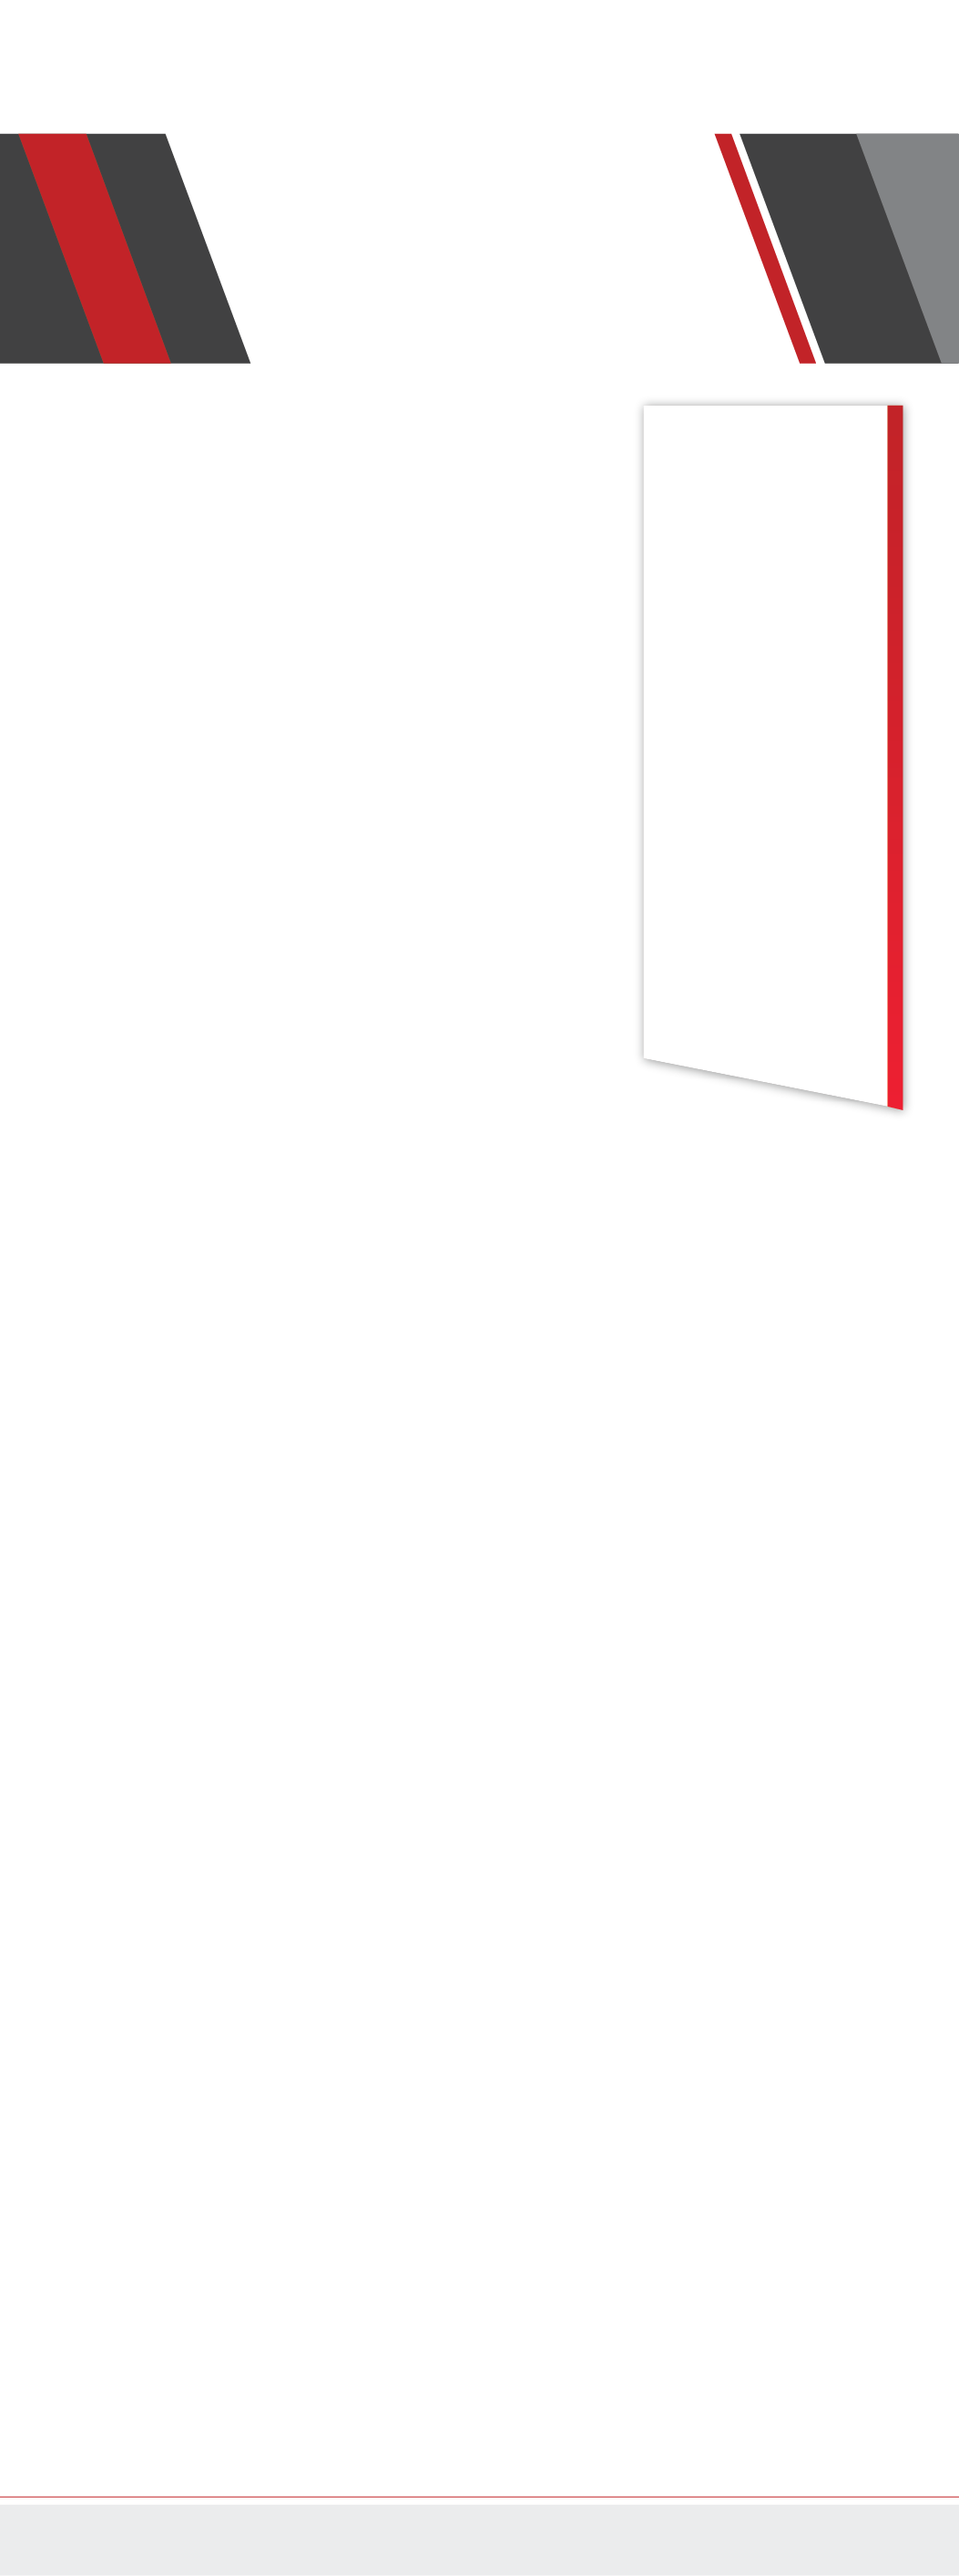
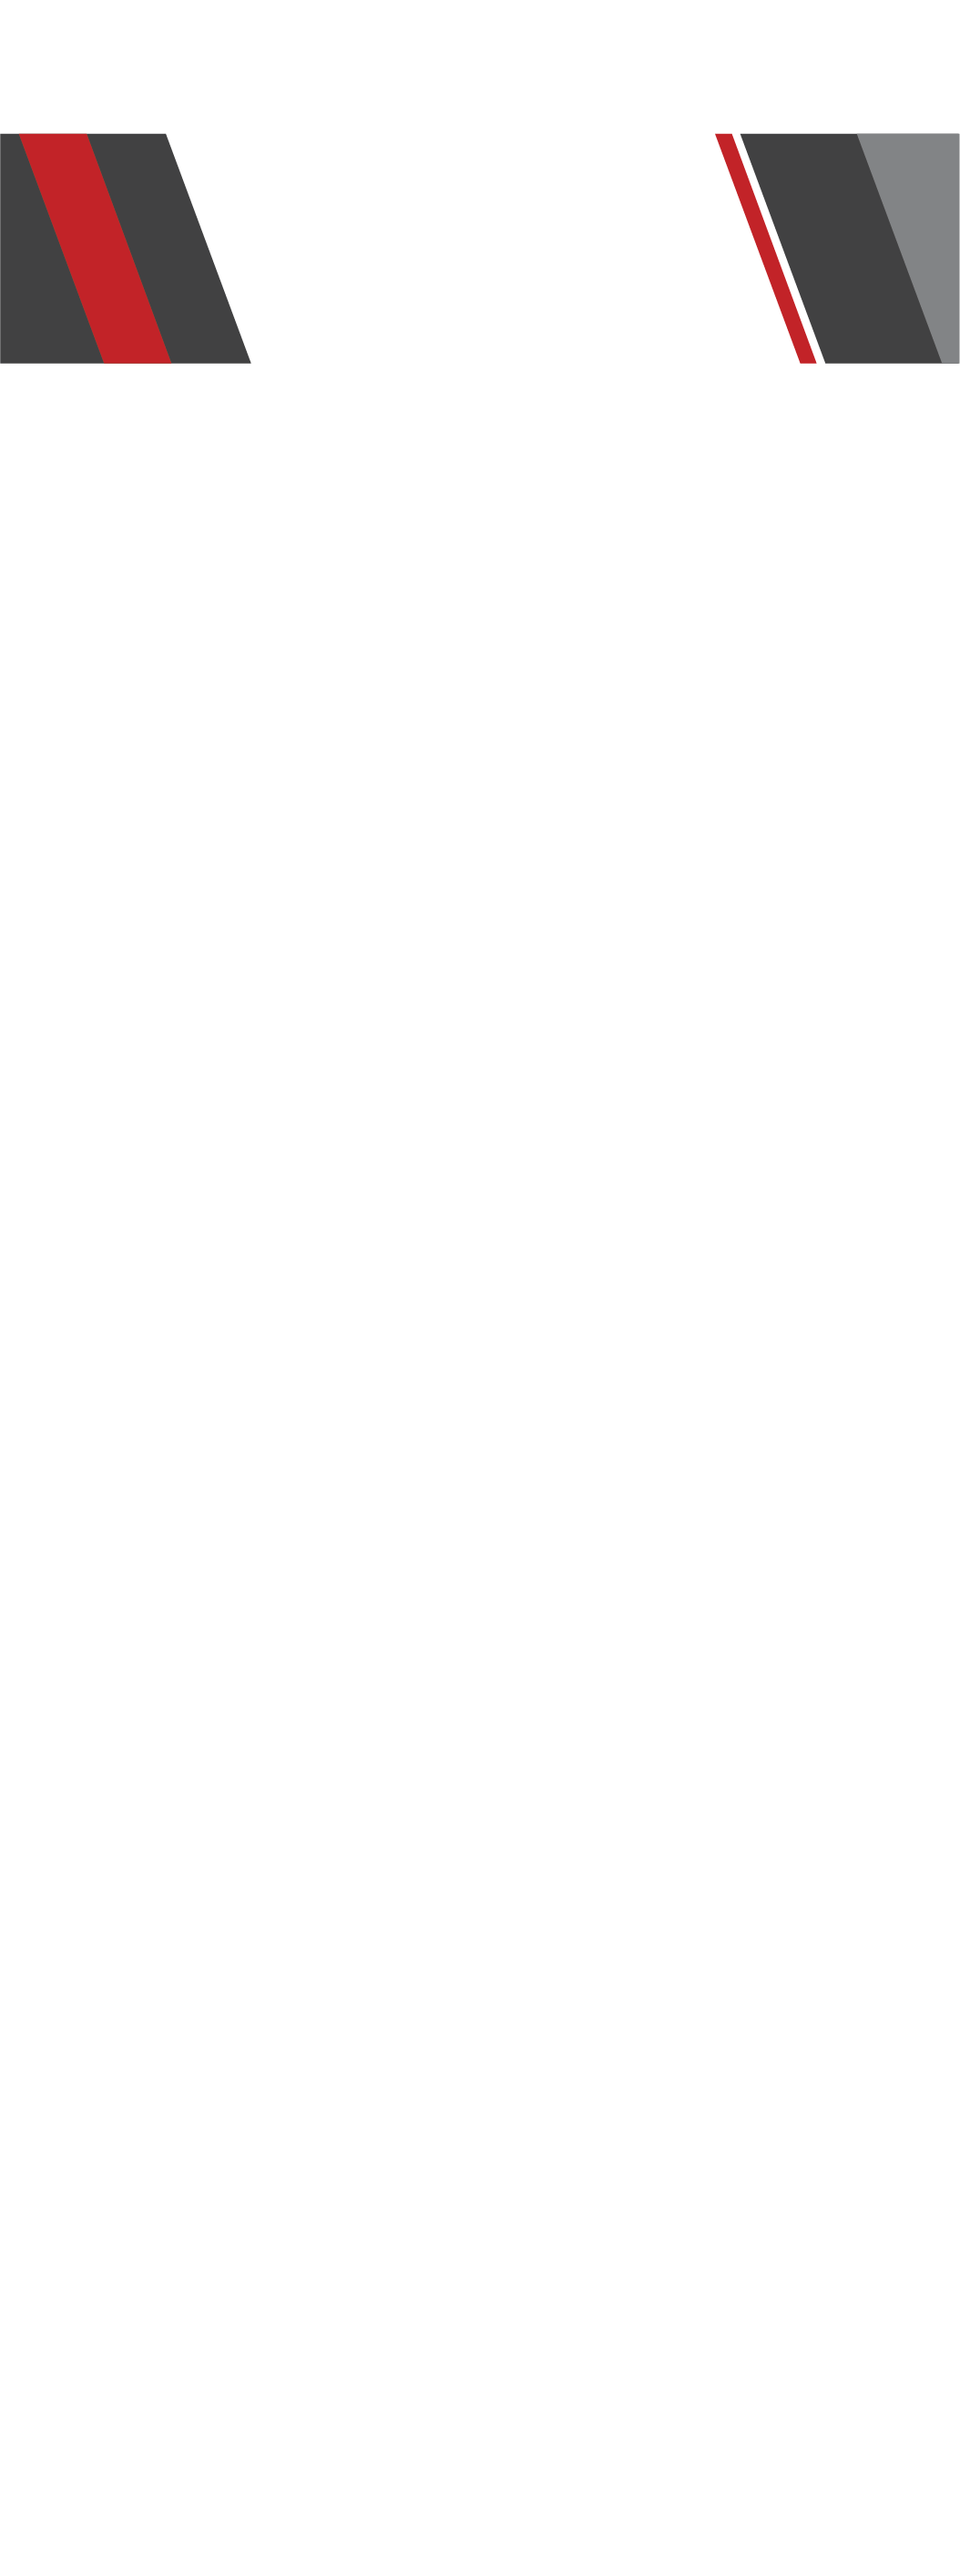
Wed Aug 28 2013
More junk

Changed region(s): [[0.9117, 0.1557, 0.9725, 0.436], [0.6686, 0.1557, 0.699, 0.1868]]

diff --git a/company.html b/company.html
@@ -16,7 +16,7 @@
         <script src="js/modernizr-2.6.2.min.js"></script>
 
     </head>
-    <body>
+    <body id="company">
         <!--[if lt IE 7]>
             <p class="chromeframe">You are using an <strong>outdated</strong> browser. Please <a href="http://browsehappy.com/">upgrade your browser</a> or <a href="http://www.google.com/chromeframe/?redirect=true">activate Google Chrome Frame</a> to improve your experience.</p>
         <![endif]-->
@@ -86,29 +86,31 @@
 					</div> <!-- end .companyMain -->
 
 					<div class="companySidebar">
-						<h2>Careers</h2>
-						<p class="companyCareers">We are headquartered in San Francisco, CA but our technology is national, helping multiple fortune 1000 and retail giants complete their last mile logistics. Be part of an energetic team that builds on personal relationships and reliable technology to delivery the best customer experience possible. Check out the latest open positions or send us your resume:</p>
+						<div>
+							<h2>Careers</h2>
+							<p class="companyCareers">We are headquartered in San Francisco, CA but our technology is national, helping multiple fortune 1000 and retail giants complete their last mile logistics. Be part of an energetic team that builds on personal relationships and reliable technology to delivery the best customer experience possible. Check out the latest open positions or send us your resume:</p>
 
-						<h4>Contact:</h4>
-						<h3>GrandJunction<h3>
-						<div class="companyAddress">
-							<p>250 Montgomery Street</p>
-							<p>3rd Floor</p>
-							<p>San Francisco, CA 94104</p>
-							<p>415.277.2000</p>
-							<p>info@grandjunction.com</p>
+							<h4>Contact:</h4>
+							<h3>GrandJunction<h3>
+							<div class="companyAddress">
+								<p>250 Montgomery Street</p>
+								<p>3rd Floor</p>
+								<p>San Francisco, CA 94104</p>
+								<p>415.277.2000</p>
+								<p>info@grandjunction.com</p>
+							</div>
+
+							<h4>Customer Support:</h4>
+							<div class="companySupport">
+								<p>1.888.407.4640</p>
+								<p>Mon-Fri: 8:00 AM - 10:00 PM EST</p>
+								<p>Sat: 9:00 AM - 5:30 PM EST</p>
+							</div>
+
+							<h4>Media Contact:</h4>
+							<h3>Ross Merritt</h3>
+							<p class="mediaContact">rmerritt@grandjunction.com</p>
 						</div>
-
-						<h4>Customer Support:</h4>
-						<div class="companySupport">
-							<p>1.888.407.4640</p>
-							<p>Mon-Fri: 8:00 AM - 10:00 PM EST</p>
-							<p>Sat: 9:00 AM - 5:30 PM EST</p>
-						</div>
-
-						<h4>Media Contact:</h4>
-						<h3>Ross Merritt</h3>
-						<p class="mediaContact">rmerritt@grandjunction.com</p>
 					</div>	<!-- end .companySidebar -->			
 				</div> <!-- end .mainContent -->
 				

diff --git a/style.css b/style.css
@@ -680,7 +680,7 @@ body#technology{
 	font-family:  Vegur , Calibri, Arial, Georgia, Verdana, Sans-Serif;
 	font-size: 24px;
 	line-height: 24px;
-	color: #D85800;
+	color: #FFF;
 	margin: 0 0 10px -15px;
 	font-weight: 100;
 }
@@ -964,7 +964,7 @@ body#resource{
 	font-family:  Vegur , Calibri, Arial, Georgia, Verdana, Sans-Serif;
 	font-size: 24px;
 	line-height: 24px;
-	color: #D85800;
+	color: #FFF;
 	margin: 0 0 20px 0;
 	font-weight: 100;
 }
@@ -1328,15 +1328,20 @@ body#resource{
 
 
 /* -----COMPANY */
+body#company{
+	background-image: url("images/companyBackgroundSlice.png");
+	background-repeat: repeat-x;
+}
+
 .companyBackground{
 	background-image:url("images/companyBackground.png");
 }
 
 .companyWrap{
-position: relative;
-width: 1050px;
-margin: 0 auto;
-height: 2892px;
+	position: relative;
+	width: 1050px;
+	margin: 0 auto;
+	height: 2826px;
 }
  
 /* company .topContent */
@@ -1395,7 +1400,7 @@ height: 2892px;
 }
 
 .companyMain h3{
-	margin-top: 75px;
+	margin-top: 65px;
 }
 
 .companyMain h3:first-of-type{
@@ -1424,14 +1429,20 @@ height: 2892px;
 	position: absolute;
 	top: 465px;
 	left: 735px;
-	width: 225px;
+	width: 260px;
+	background: #CACCCE;
+}
+
+.companySidebar div{
+	width: 220px;
+	margin: 20px;
 }
 
 .companySidebar h2{
 	font-family:  Vegur , Calibri, Arial, Georgia, Verdana, Sans-Serif;
 	font-size: 24px;
 	line-height: 24px;
-	color: #D85800;
+	color: #FFF;
 	margin-bottom: 20px;
 	font-weight: 100;
 }
@@ -1469,7 +1480,7 @@ height: 2892px;
 .companyFooter{
 	position: absolute;
 	left: -13px;
-	top: 2695px;
+	top: 2613px;
 }
 
 .companyFooter div{
@@ -1780,7 +1791,7 @@ body#customer{
 .customerFooter{
 	position: absolute;
 	left: -13px;
-	top: 1505px;
+	top: 1514px;
 }
 
 .customerFooter div{
